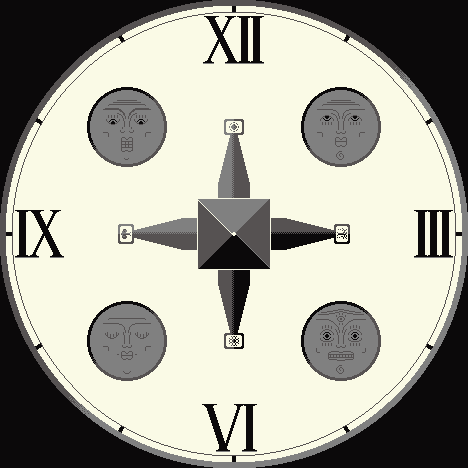
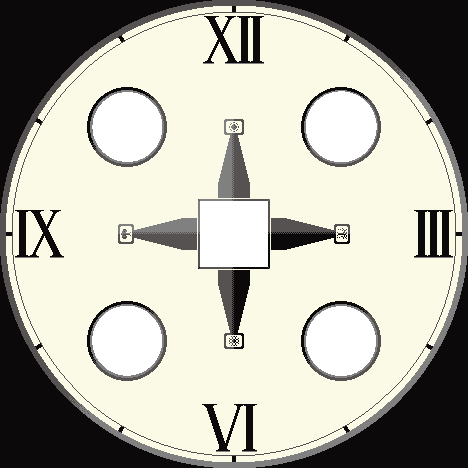
Add more time stuff

diff --git a/AridArnold/Tiles/Time/TimeWallTile.cs b/AridArnold/Tiles/Time/TimeWallTile.cs
@@ -1,0 +1,79 @@
+using Microsoft.Xna.Framework;
+
+namespace AridArnold
+{
+	internal class TimeWallTile : SquareTile
+	{
+		Dictionary<int, Animator> mTimeToAnimator;
+		string mAnimName;
+		int mDisplayTimeZone;
+
+
+
+		/// <summary>
+		/// Tile with start position
+		/// </summary>
+		/// <param name="position">Start position</param>
+		public TimeWallTile(Vector2 position, string animName) : base(position)
+		{
+			mAnimName = animName;
+			mTimeToAnimator = new Dictionary<int, Animator>();
+			mDisplayTimeZone = TimeZoneManager.I.GetCurrentTimeZone();
+			LoadNewAnimation(mDisplayTimeZone);
+			EventManager.I.AddListener(EventType.TimeChanged, OnTimeChange);
+		}
+
+
+
+		/// <summary>
+		/// Update wall animations
+		/// </summary>
+		/// <param name="gameTime"></param>
+		public override void Update(GameTime gameTime)
+		{
+			mDisplayTimeZone = TimeZoneManager.I.GetCurrentTimeZone();
+			Animator anim;
+			if(mTimeToAnimator.TryGetValue(mDisplayTimeZone, out anim))
+			{
+				anim.Update(gameTime);
+			}
+			else
+			{
+				LoadNewAnimation(mDisplayTimeZone);
+			}
+
+			base.Update(gameTime);
+		}
+
+
+		void OnTimeChange(EArgs eArgs)
+		{
+			mDisplayTimeZone = TimeZoneManager.I.GetCurrentTimeZone();
+			Animator anim;
+			if (!mTimeToAnimator.TryGetValue(mDisplayTimeZone, out anim))
+			{
+				LoadNewAnimation(mDisplayTimeZone);
+			}
+		}
+
+
+		/// <summary>
+		/// Load tile animation for zone
+		/// </summary>
+		void LoadNewAnimation(int time)
+		{
+			Animator newAnim = MonoData.I.LoadAnimator(mAnimName + time.ToString());
+			mTimeToAnimator.Add(time, newAnim);
+		}
+
+
+
+		/// <summary>
+		/// Get texture for this tile
+		/// </summary>
+		public override Texture2D GetTexture()
+		{
+			return mTimeToAnimator[mDisplayTimeZone].GetCurrentTexture();
+		}
+	}
+}

diff --git a/AridArnold/Layout/Layout.cs b/AridArnold/Layout/Layout.cs
@@ -97,7 +97,10 @@ namespace AridArnold
 		{
 			foreach (LayElement element in mElements)
 			{
-				element.Draw(info);
+				if (element.IsVisible())
+				{
+					element.Draw(info);
+				}
 			}
 		}
 
@@ -154,7 +157,8 @@ namespace AridArnold
 		Vector2 mPos;
 		DrawLayer mDepth;
 		Color mColor;
-		float mScale; 
+		float mScale;
+		bool mVisible;
 
 		public LayElement(XmlNode rootNode)
 		{
@@ -162,6 +166,7 @@ namespace AridArnold
 			mDepth = MonoParse.GetDrawLayer(rootNode["depth"]);
 			mScale = MonoParse.GetFloat(rootNode["scale"], 1.0f);
 			mColor = MonoParse.GetColor(rootNode["color"]);
+			mVisible = true;
 		}
 
 		public virtual void Update(GameTime gameTime) { }
@@ -175,5 +180,9 @@ namespace AridArnold
 		public Vector2 GetPosition() {  return mPos; }
 
 		public Color GetColor() { return mColor; }
+
+		public bool IsVisible() {  return mVisible; }
+
+		public void SetVisible(bool visible) {  mVisible = visible; }
 	}
 }

diff --git a/AridArnold/Camera/CameraMovement/ShiftTimeCameraMove.cs b/AridArnold/Camera/CameraMovement/ShiftTimeCameraMove.cs
@@ -27,6 +27,12 @@
 			float p = GetMovementPercentage();
 			float waveP = MonoMath.SmoothZeroToOne( Math.Min(2.0f - MathF.Abs(4.0f*p-2.0f),1.0f) );
 			mCurrentSpec.mRotation = mStartRotation + MathF.PI * 2.0f * MonoMath.SmoothZeroToOne(p);
+
+			if(!mForwards)
+			{
+				mCurrentSpec.mRotation = -mCurrentSpec.mRotation;
+			}
+
 			mCurrentSpec.mZoom = 1.0f + ((1.0f / ZOOM_OUT_LEVEL) - 1.0f) * waveP;
 			mCurrentSpec.mPosition = 20.0f * waveP * new Vector2(RandomManager.I.GetDraw().GetUnitFloat(), RandomManager.I.GetDraw().GetUnitFloat());
 

diff --git a/AridArnold/Layout/Elements/BG/ETimeTexture.cs b/AridArnold/Layout/Elements/BG/ETimeTexture.cs
@@ -1,0 +1,19 @@
+namespace AridArnold
+{
+	internal class ETimeTexture : ETexture
+	{
+		int mTimeZone = 0;
+
+		public ETimeTexture(XmlNode node) : base(node)
+		{
+			mTimeZone = MonoParse.GetInt(node["time"]);
+			EventManager.I.AddListener(EventType.TimeChanged, OnTimeChange);
+			SetVisible(mTimeZone == TimeZoneManager.I.GetCurrentTimeZone());
+		}
+
+		void OnTimeChange(EArgs eArgs)
+		{
+			SetVisible(mTimeZone == TimeZoneManager.I.GetCurrentTimeZone());
+		}
+	}
+}

diff --git a/AridArnold/Tiles/Time/StopWatchTile.cs b/AridArnold/Tiles/Time/StopWatchTile.cs
@@ -36,7 +36,10 @@ namespace AridArnold
 			if (entity is Arnold && mDebugEnabled)
 			{
 				Camera gameCam = CameraManager.I.GetCamera(CameraManager.CameraInstance.GameAreaCamera);
-				gameCam.QueueMovement(new ShiftTimeCameraMove(true));
+
+				bool forwards = TimeZoneManager.I.GetCurrentPlayerAge() == 0;
+
+				gameCam.QueueMovement(new ShiftTimeCameraMove(forwards));
 				mDebugEnabled = false;
 			}
 

diff --git a/AridArnold/Entity/Player/Arnold.cs b/AridArnold/Entity/Player/Arnold.cs
@@ -356,6 +356,16 @@ namespace AridArnold
 		/// </summary>
 		void OnTimeChange(EArgs args)
 		{
+			RefreshTexturePack();
+		}
+
+
+
+		/// <summary>
+		/// Refresh the textures so we update with age
+		/// </summary>
+		void RefreshTexturePack()
+		{
 			switch (TimeZoneManager.I.GetCurrentPlayerAge())
 			{
 				case 0:

diff --git a/AridArnold/Data/MonoParse.cs b/AridArnold/Data/MonoParse.cs
@@ -26,6 +26,18 @@
 
 
 
+		static public int GetInt(XmlNode node, int defaultVal = 0)
+		{
+			if (node is null)
+			{
+				return defaultVal;
+			}
+
+			return int.Parse(node.InnerText);
+		}
+
+
+
 		static public DrawLayer GetDrawLayer(XmlNode node, DrawLayer defaultVal = DrawLayer.Default)
 		{
 			if(node is null)

diff --git a/AridArnold/Tiles/TileManager.cs b/AridArnold/Tiles/TileManager.cs
@@ -173,6 +173,8 @@ namespace AridArnold
 					case 0x826218u:
 						return new Nuke(position);
 					// Time
+					case 0x010101u:
+						return new TimeWallTile(position, "TimeWall");
 					case 0xD39700u:
 						return new StopWatchTile(position);
 					//Decoration
